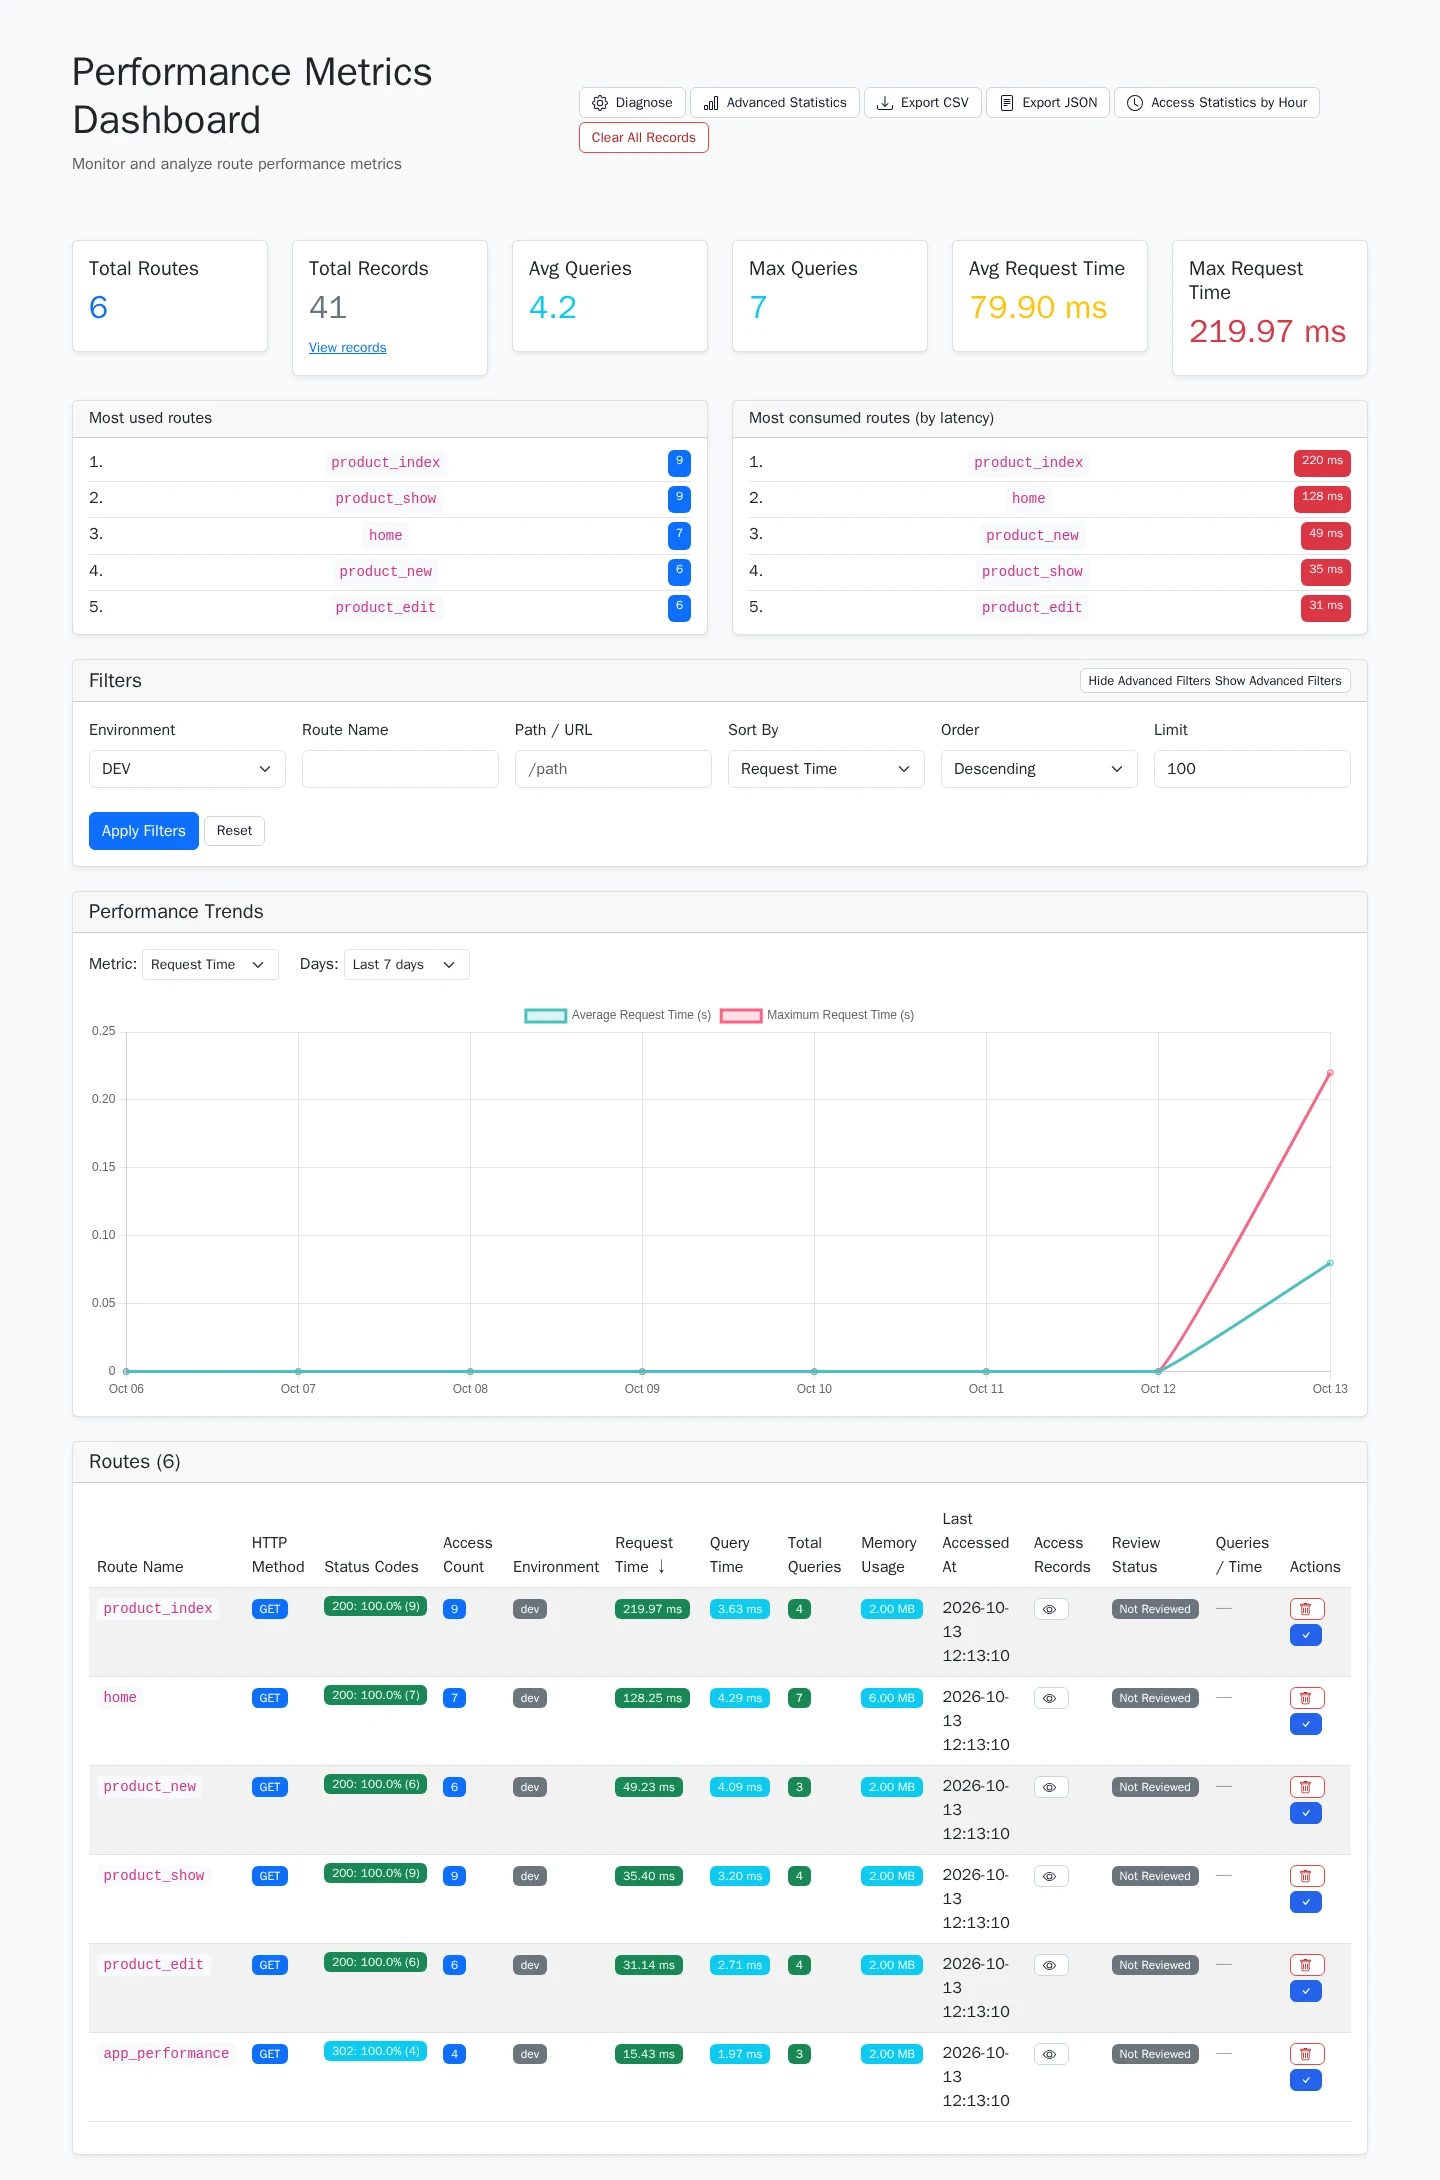
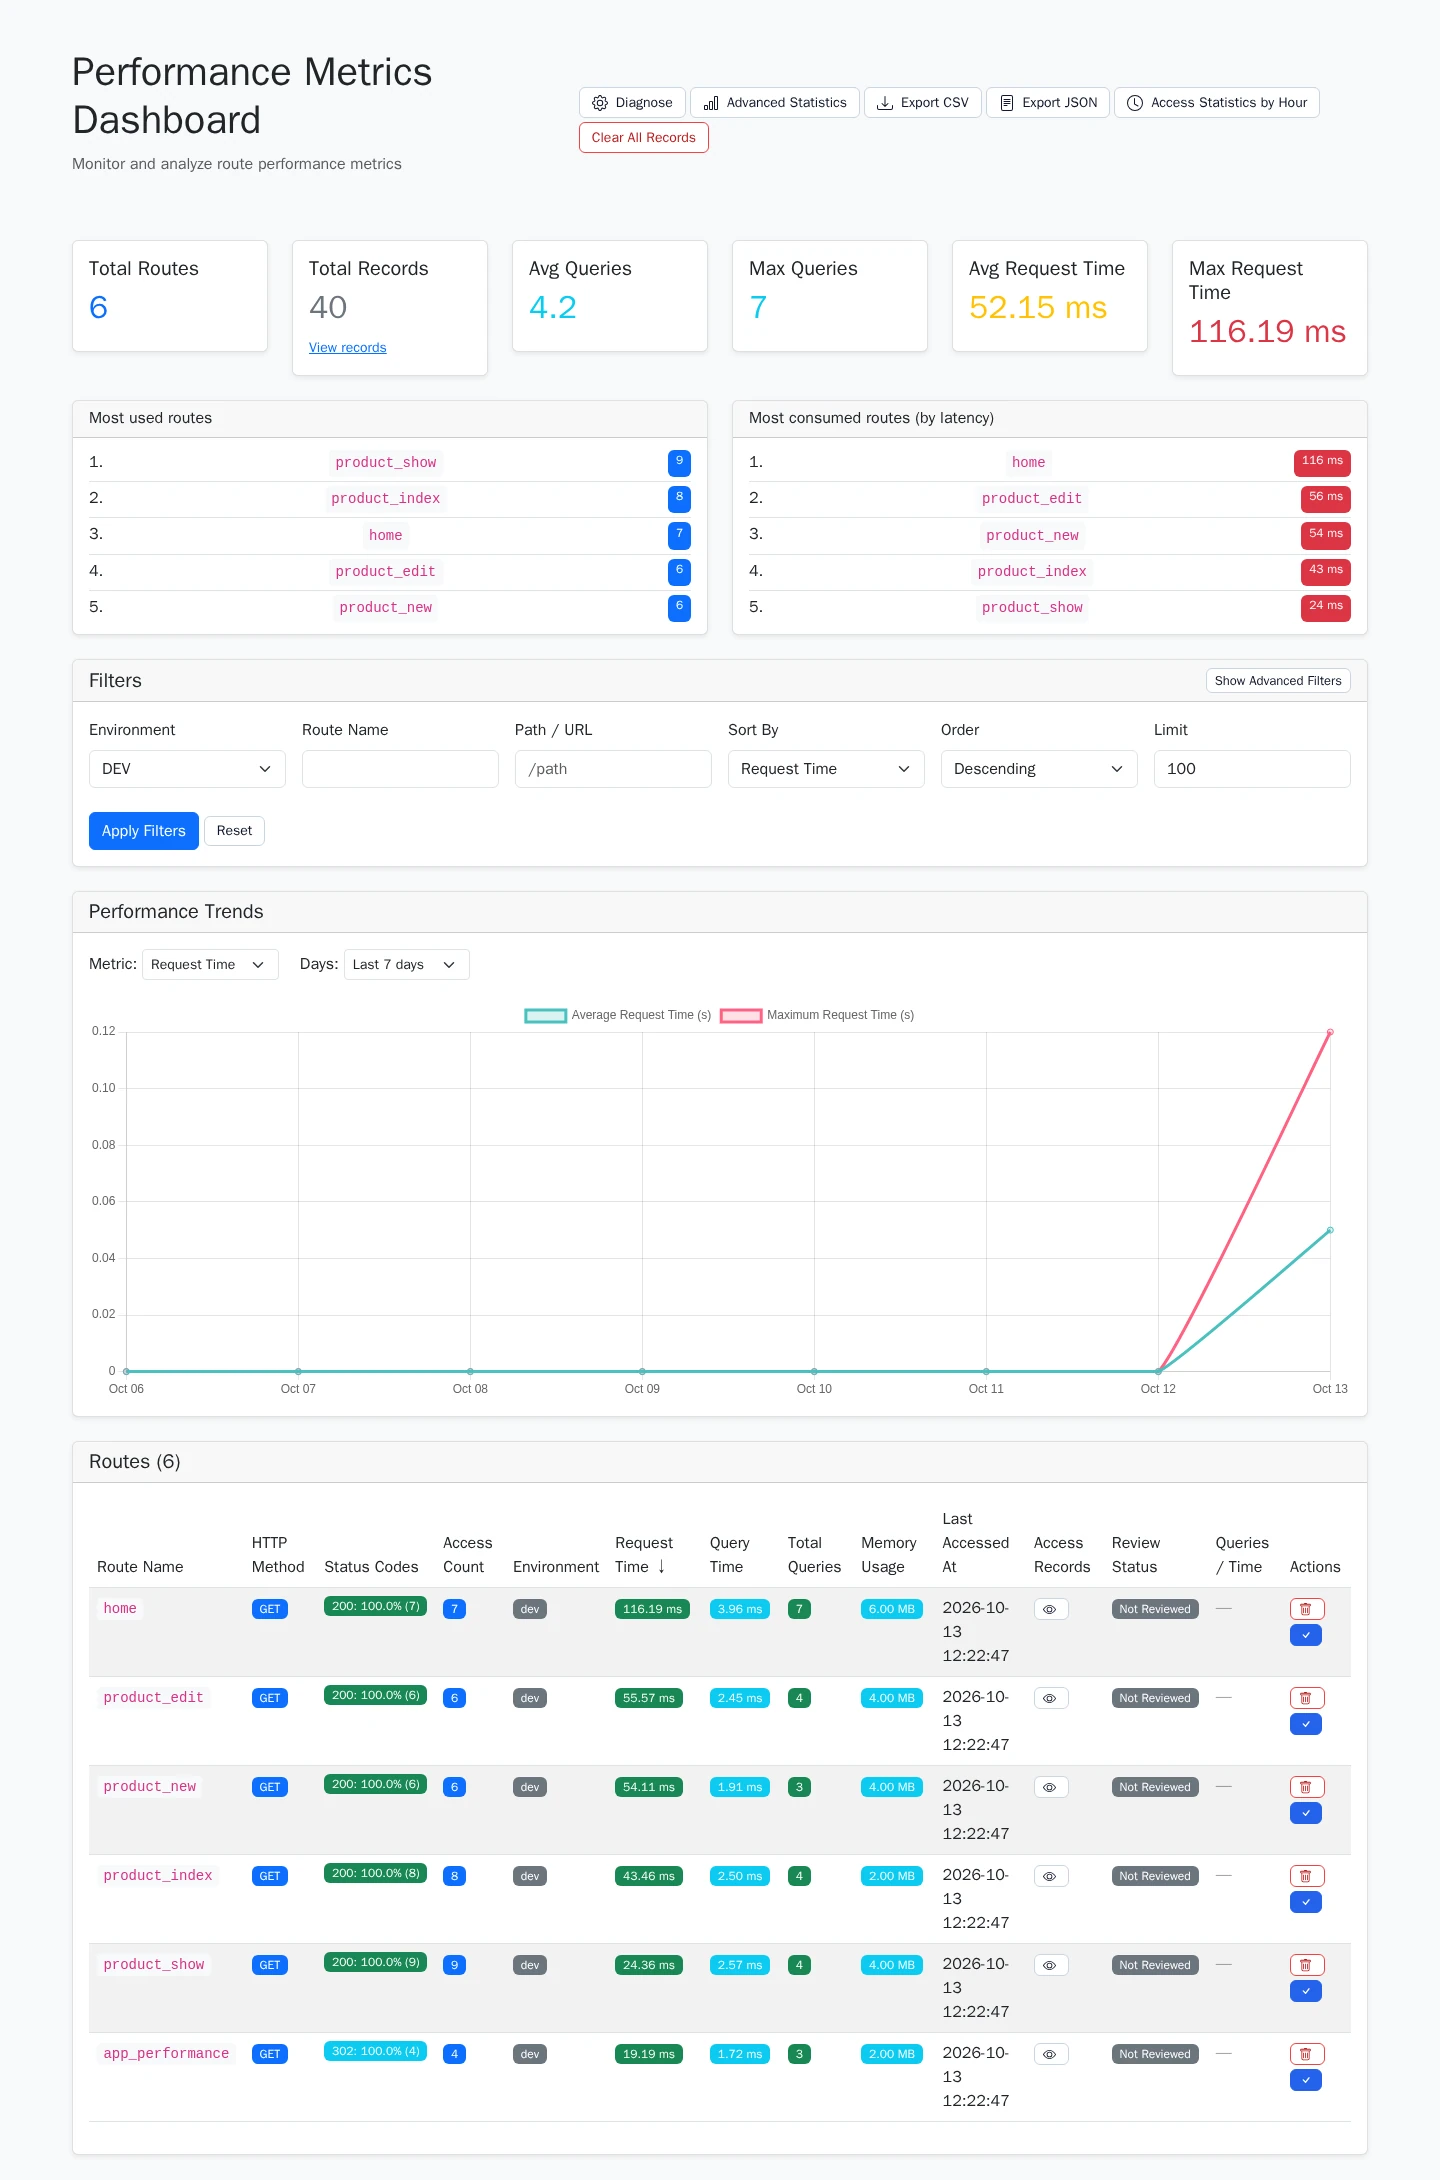
docs(demo): recapture dashboard screenshot with a single filters toggle label
Adds an e2e check that the advanced filters toggle shows only the label for
the current state (collapsed, after toggling, expanded by an active filter).

diff --git a/demo/symfony8/e2e/tests/demo.spec.ts b/demo/symfony8/e2e/tests/demo.spec.ts
@@ -18,6 +18,22 @@ test.describe('demo happy path', () => {
     await expect(page.locator('table').first()).toBeVisible();
   });
 
+  test('advanced filters toggle shows only the label for the current state', async ({ page }) => {
+    await page.goto('/demo/performance/');
+    const toggle = page.locator('button[data-bs-target="#advancedFilters"]');
+    await expect(toggle.locator('.when-collapsed')).toBeVisible();
+    await expect(toggle.locator('.when-expanded')).toBeHidden();
+
+    await toggle.click();
+    await expect(toggle.locator('.when-expanded')).toBeVisible();
+    await expect(toggle.locator('.when-collapsed')).toBeHidden();
+
+    await page.goto('/demo/performance/?min_request_time=0.001');
+    await expect(toggle.locator('.when-expanded')).toBeVisible();
+    await expect(toggle.locator('.when-collapsed')).toBeHidden();
+    await expect(page.locator('#advancedFilters')).toBeVisible();
+  });
+
   for (const path of ['/demo/performance/statistics', '/demo/performance/access-statistics', '/demo/performance/diagnose']) {
     test(`${path} responds`, async ({ page }) => {
       const response = await page.goto(path);
